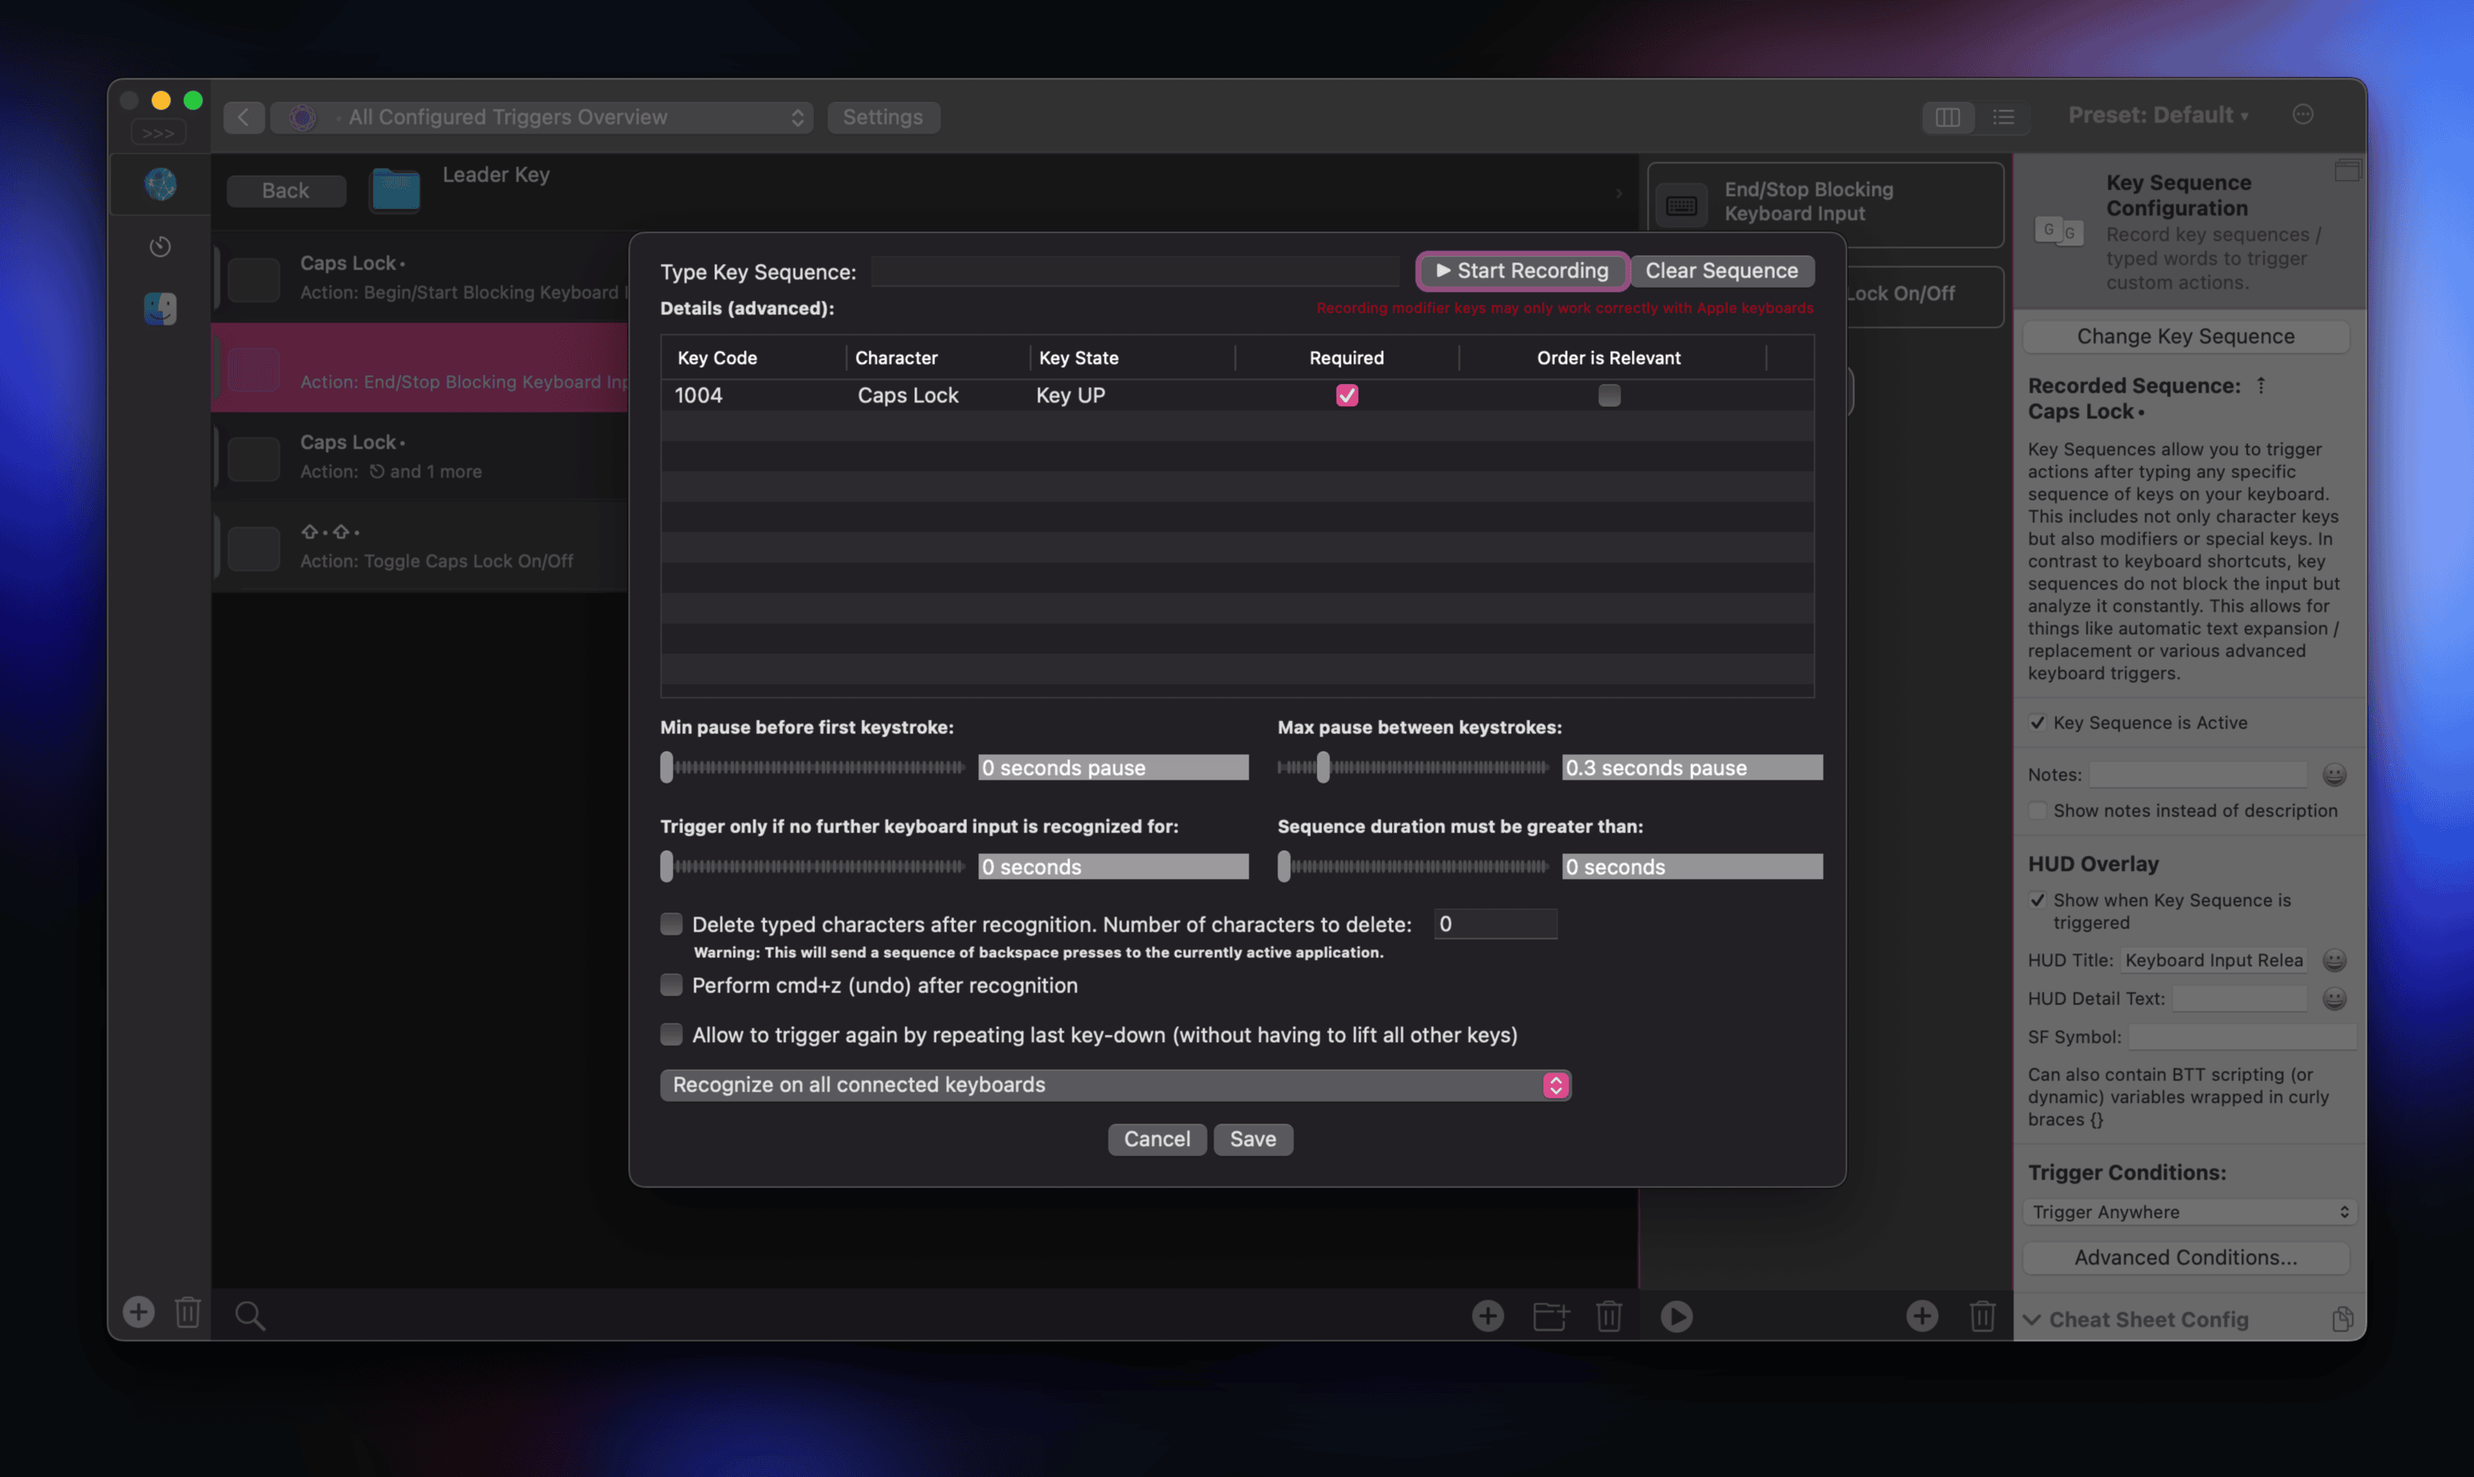
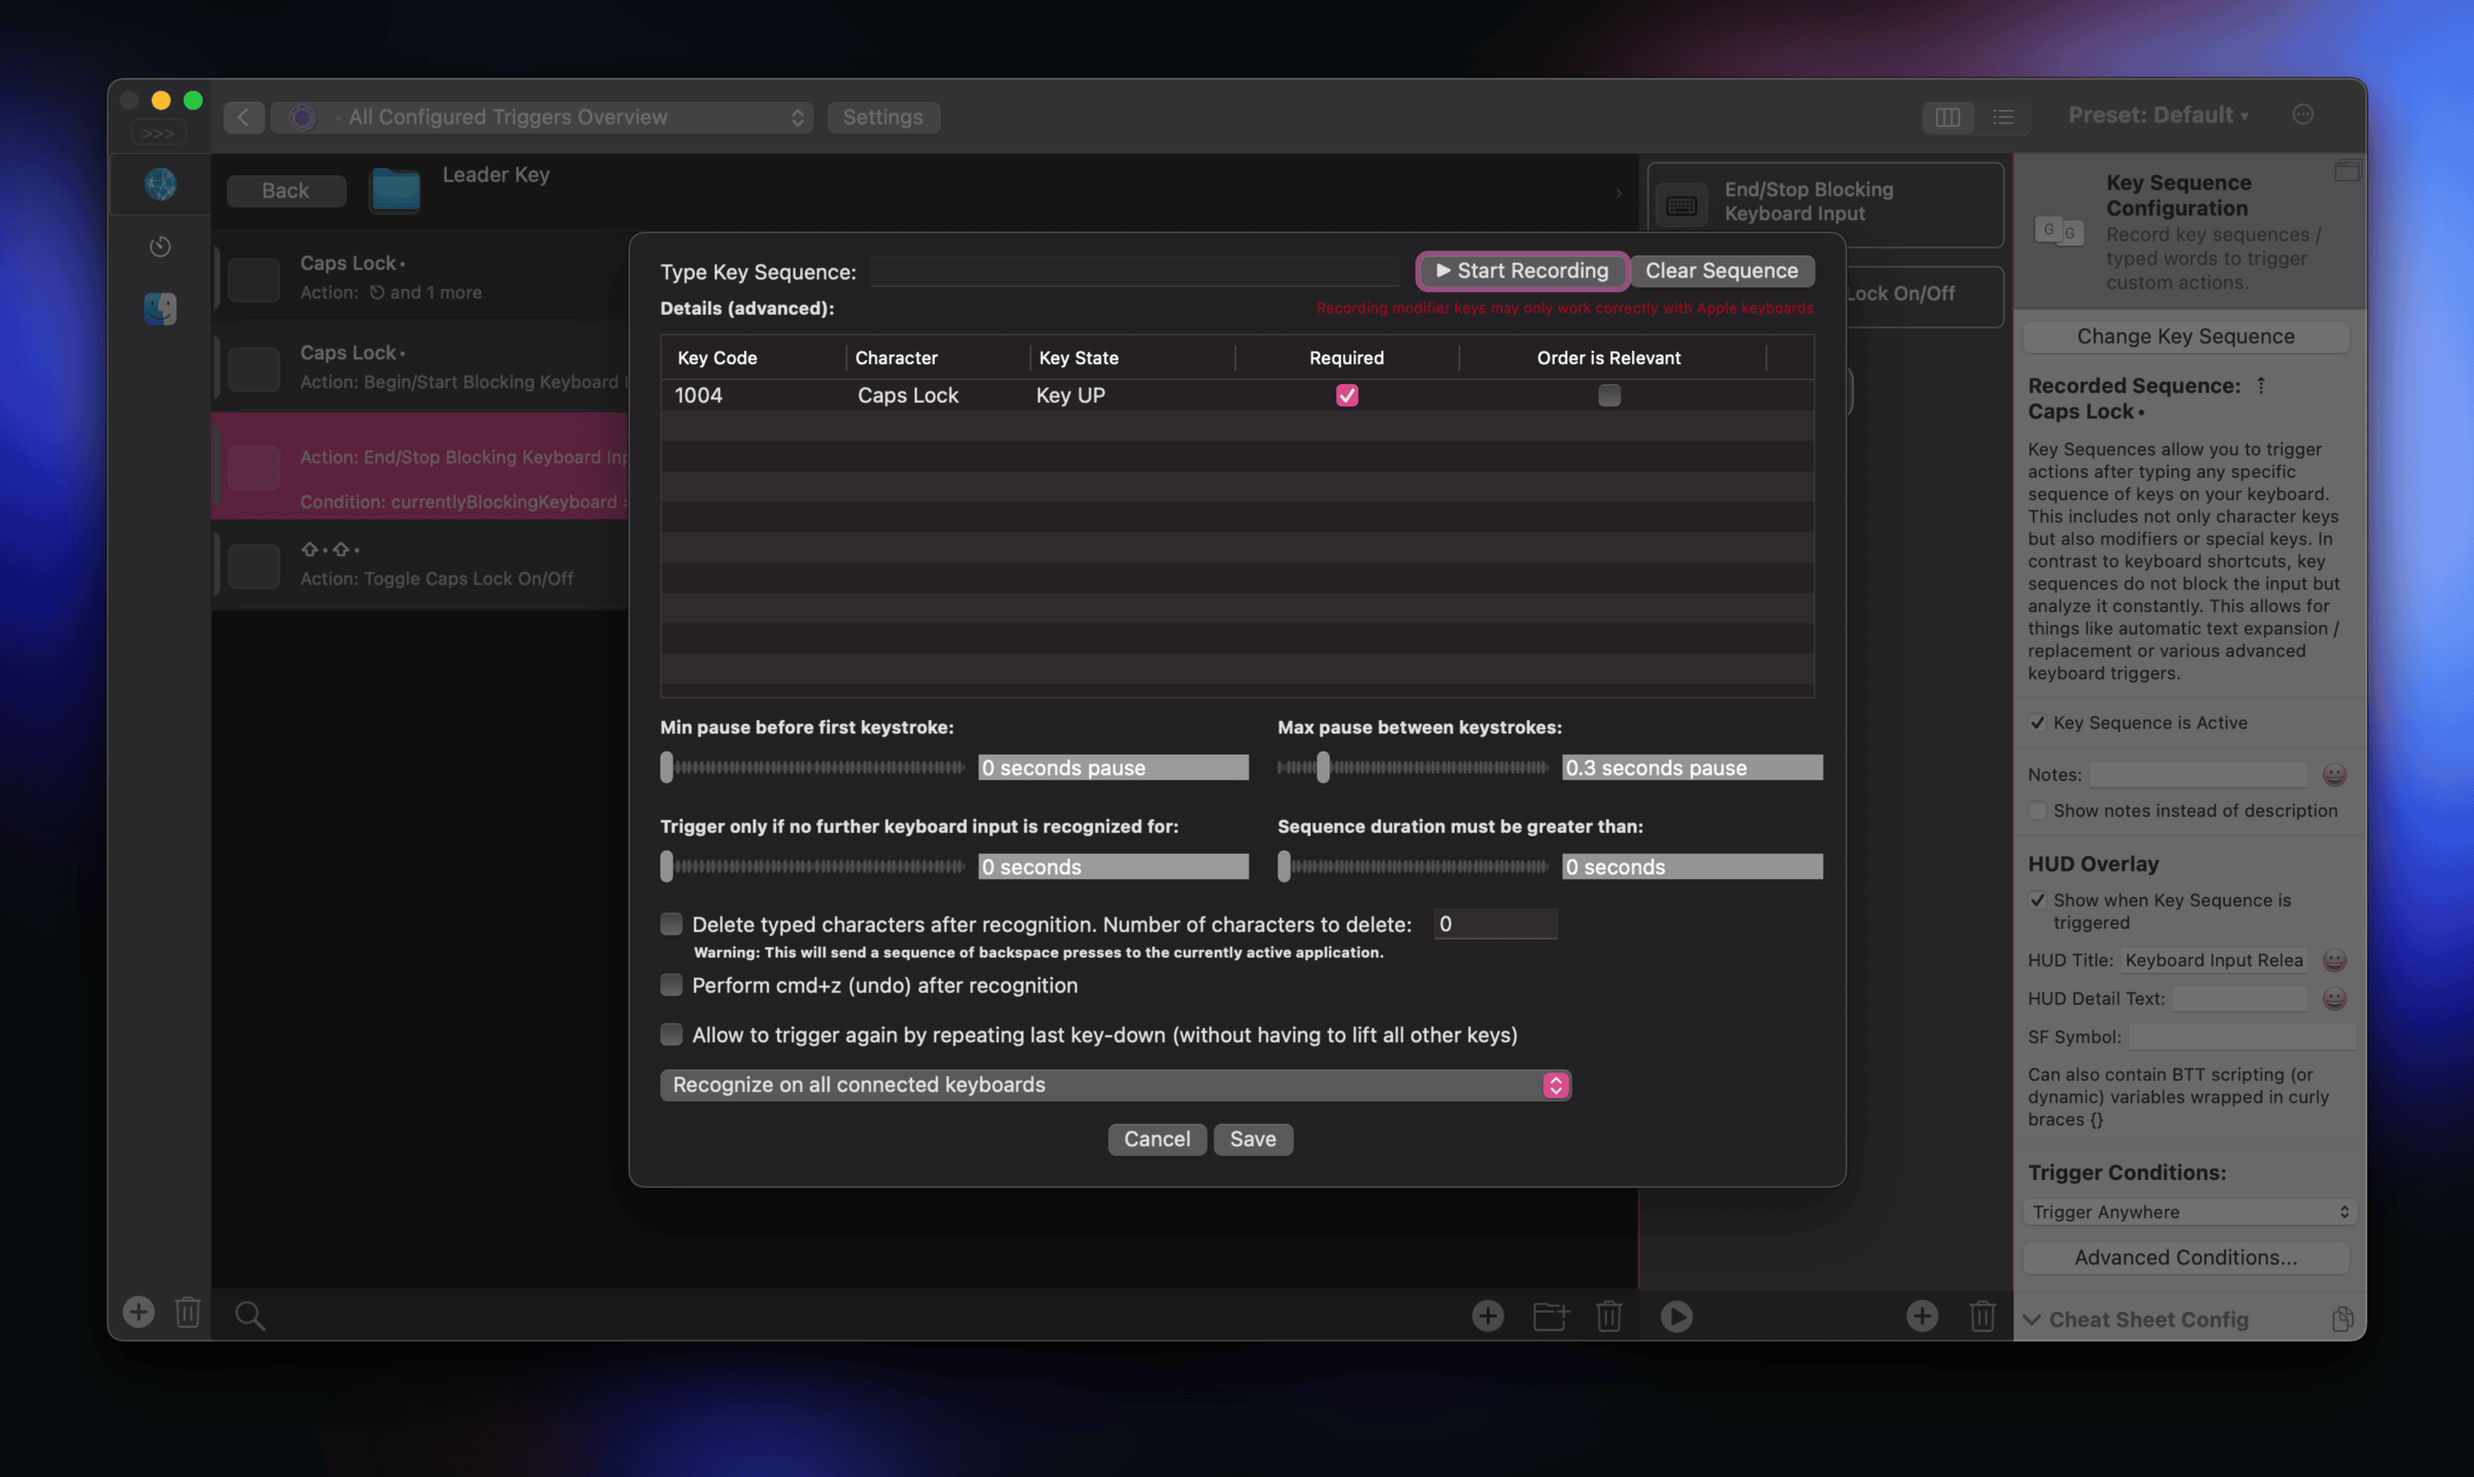
Quartz sync: Jun 7, 2024, 1:33 PM

diff --git a/content/Permanent Notes/Using Caps Lock as NOT the Hyper Key.md b/content/Permanent Notes/Using Caps Lock as NOT the Hyper Key.md
@@ -5,7 +5,7 @@ tags:
   - productivity/shortcuts
   - macos/bettertouchtool
 date: 2024-06-07 12:27
-last edited: 2024-06-07 12:49
+last edited: 2024-06-07 13:33
 ---
 ## ❓ What?
 
@@ -23,9 +23,20 @@ Using Caps Lock as Hyper Key would mean I have to press Four Modifiers when conf
 
 I have spent quite a bit of time trying out different combinations of delays and such, trying to emulate a QMK tap-hold functionality and here is what worked finally.
 
-- When Caps Lock is Pressed and Released, send Escape (and Toggle Caps Lock - this is important because otherwise Caps Lock itself would turn on - meaning all CAPS).
-- When Caps Lock is Pressed and no further input is detected for the next 0.2 seconds (that is, caps lock is not released OR any other key is NOT pressed), block keyboard input. Initially the delay was 0.3s but I have reduced it to 0.2s. I'll test reducing it further in the future.
-- When Caps Lock is Released, allow keyboard input (And Toggle Caps Lock - this is important because otherwise Caps Lock itself would turn on - meaning all CAPS).
+- When Caps Lock is Pressed and Released:
+	- Send Escape 
+	- Toggle Caps Lock
+	  
+	  This is important because otherwise Caps Lock itself would turn on - meaning all CAPS.
+- When Caps Lock is Pressed and *no further input is detected for the next 0.2 seconds* (that is, caps lock is not released OR any other key is NOT pressed):
+	- Block keyboard input. 
+	  
+	  Initially, the delay was 0.3s, but I have reduced it to 0.2s. I'll try reducing it further in the future. 
+- When Caps Lock is Released (*only when keyboard input is blocked* - I do not want it to trigger when caps lock is pressed with another key as I also configure shortcuts that are not key sequences):
+	- Allow keyboard input 
+	- Toggle Caps Lock 
+	  
+	  This is important because otherwise Caps Lock itself would turn on - meaning all CAPS.
 
 ![[caps-lock-press-and-hold.png]]
 ![[caps-lock-release.png]]
